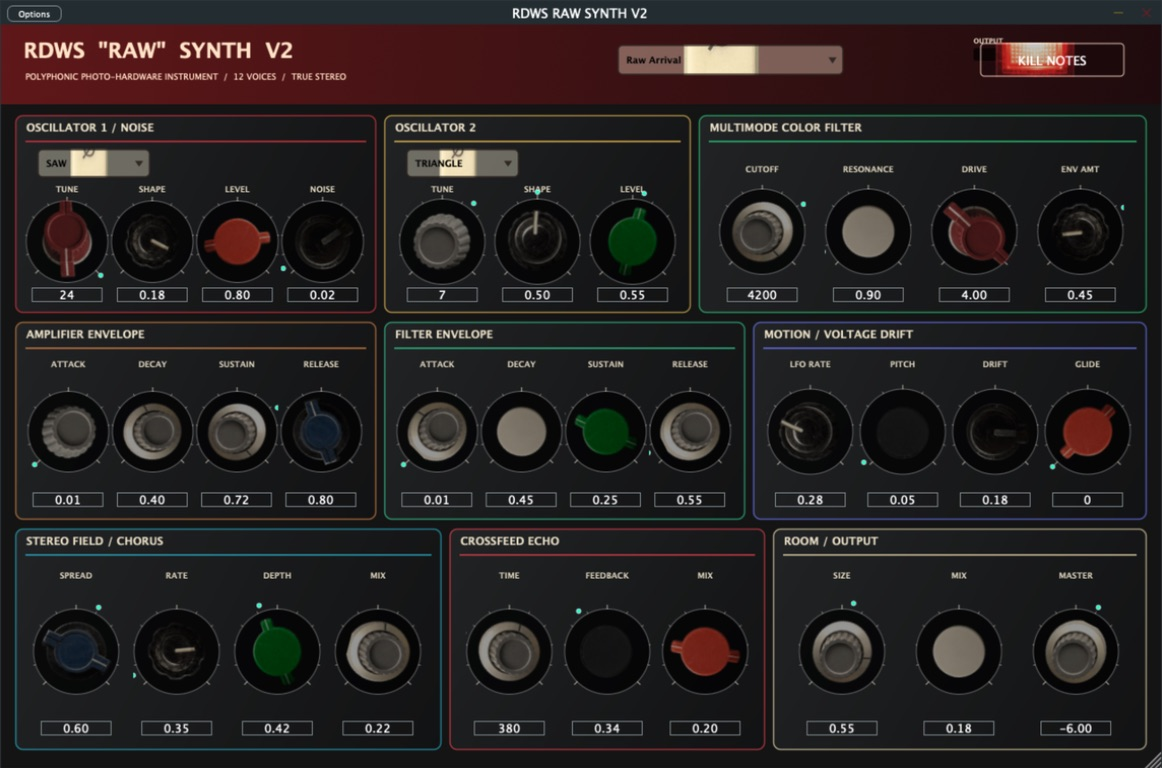
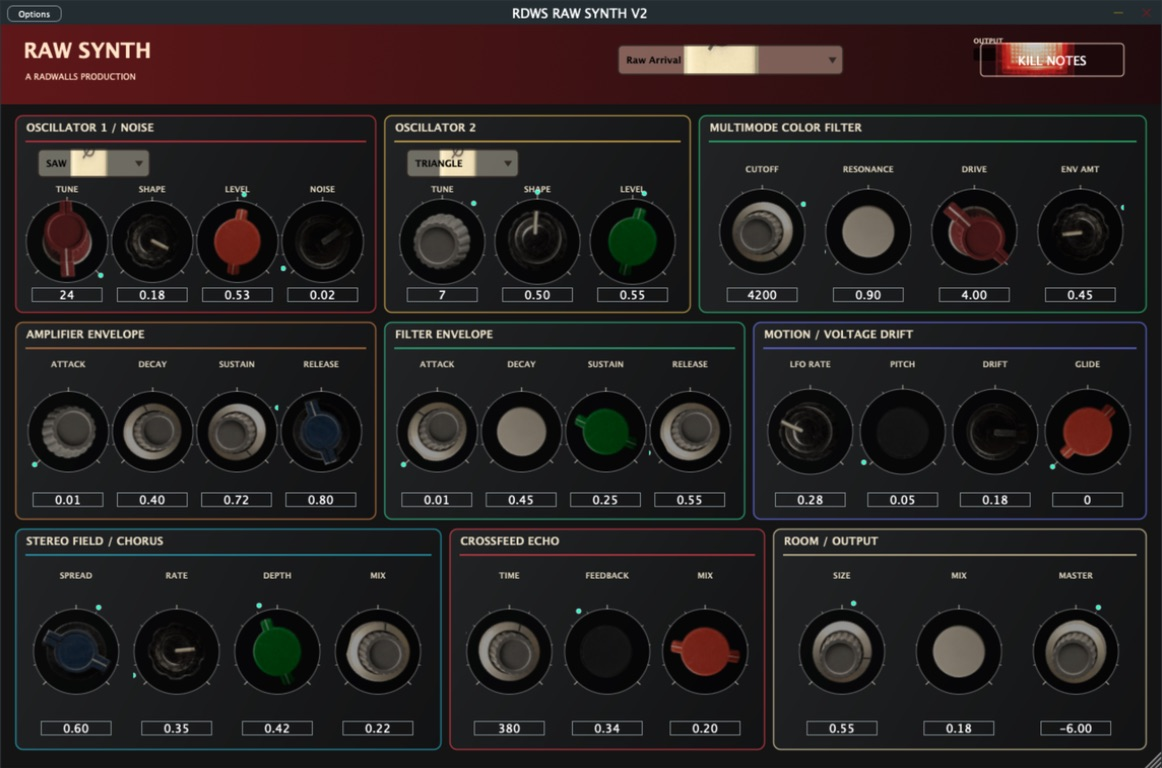
Rebrand RAW SYNTH product

diff --git a/plugins.html b/plugins.html
@@ -4,7 +4,7 @@
   <meta charset="utf-8">
   <meta name="viewport" content="width=device-width,initial-scale=1">
   <title>RDWS Audio Plug-ins — Rad Walls × Endless Vocals</title>
-  <meta name="description" content="RDWS RAW SYNTH V2 and character-rich macOS AU and VST3 plug-ins for vocals, instruments, and music production.">
+  <meta name="description" content="RAW SYNTH, a Radwalls production, plus character-rich macOS AU and VST3 plug-ins for vocals, instruments, and music production.">
   <style>
     :root{--bg:#1a1a1a;--surface:#252525;--text:#ddd;--muted:#777;--line:#3b3b3b;--blue:#0787ff}
     *{box-sizing:border-box}body{margin:0;color:var(--text);background:var(--bg);font:15px/1.6 Arial,sans-serif}.wrap{width:min(980px,92vw);margin:auto;padding:28px 0 80px}nav{display:flex;justify-content:space-between;align-items:center;margin-bottom:56px;color:#777}.brand{font-weight:normal;letter-spacing:2px;font-size:12px}.back{color:#777;text-decoration:none}.hero{text-align:center;max-width:720px;margin:0 auto}.eyebrow{color:#666;font-size:10px;letter-spacing:2px;text-transform:uppercase}h1{color:#aaa;font-size:clamp(36px,7vw,62px);font-weight:normal;line-height:1;margin:12px 0 20px}.lead{color:#777;max-width:62ch;margin:auto}.price{color:#999;font-size:18px;margin-top:16px}.actions{display:flex;gap:10px;justify-content:center;flex-wrap:wrap;margin:24px 0 52px}.button{display:inline-block;padding:10px 17px;border-radius:5px;text-decoration:none;background:#292929;border:1px solid #444;color:#bbb}.button:hover{border-color:var(--blue)}.button.secondary{color:#777}.grid{display:grid;grid-template-columns:repeat(auto-fit,minmax(230px,1fr));gap:18px}.card{overflow:hidden;border:1px solid var(--line);border-radius:5px;background:var(--surface)}.card img{display:block;width:100%;aspect-ratio:462/560;object-fit:cover;object-position:bottom;background:#111}.card-copy{padding:14px}.card h2{margin:0 0 4px;color:#aaa;font-size:17px;font-weight:normal}.card p{margin:0;color:#6f6f6f;font-size:13px}.note{margin-top:44px;padding:18px;border-top:1px solid #333;color:#666;text-align:center}.note strong{color:#888;font-weight:normal}@media(max-width:560px){nav{margin-bottom:38px}.wrap{padding-top:20px}}
@@ -21,8 +21,8 @@
     <div class="actions"><span class="button disabled" aria-disabled="true">Coming Soon</span><a class="button secondary" href="https://endlessvocals.com/shop.html#ez-plugins">Development status</a><a class="button secondary" href="https://endlessvocals.com/">Vocal coaching</a></div>
   </section>
   <section class="feature" id="rdws-raw-synth-v2">
-    <img src="plugin-images/rdws-raw-synth-v2.jpg" alt="RDWS RAW SYNTH V2 photographed-hardware synthesizer interface">
-    <div><div class="eyebrow">RDWS × Endless Vocals</div><h2>RDWS RAW SYNTH V2</h2><div class="price">$15 · AU + VST3 + Standalone</div><p>A 12-voice stereo instrument with two oscillators, resonant filtering, dual envelopes, analog drift, chorus, crossfeed delay, reverb, six presets, and 33 photographed controls that rotate around their original measured pivot points. Built for Apple Silicon Macs running macOS 13 or newer.</p><a class="button" href="https://buy.stripe.com/dRm00i71a9D514c1PD5gc0g">Get RDWS RAW SYNTH V2 · $15</a></div>
+    <img src="plugin-images/rdws-raw-synth-v2.jpg" alt="RAW SYNTH interface">
+    <div><div class="eyebrow">A Radwalls Production</div><h2>RAW SYNTH</h2><div class="price">$15 · AU + VST3 + Standalone</div><p>A 12-voice stereo instrument with two oscillators, resonant filtering, dual envelopes, analog drift, chorus, crossfeed delay, reverb, six presets, and 33 controls taken from real studio hardware. Built for Apple Silicon Macs running macOS 13 or newer.</p><a class="button" href="https://buy.stripe.com/dRm00i71a9D514c1PD5gc0g">Get RAW SYNTH · $15</a></div>
   </section>
   <section class="grid" aria-label="Included plug-ins">
     <article class="card"><img src="plugin-images/ez-verb.png?v=0.3.0" alt="EZ Verb plug-in interface"><div class="card-copy"><h2>EZ Verb</h2><p>Tight room, large hall, and cathedral spaces on one control.</p><span class="status">Coming Soon</span></div></article>